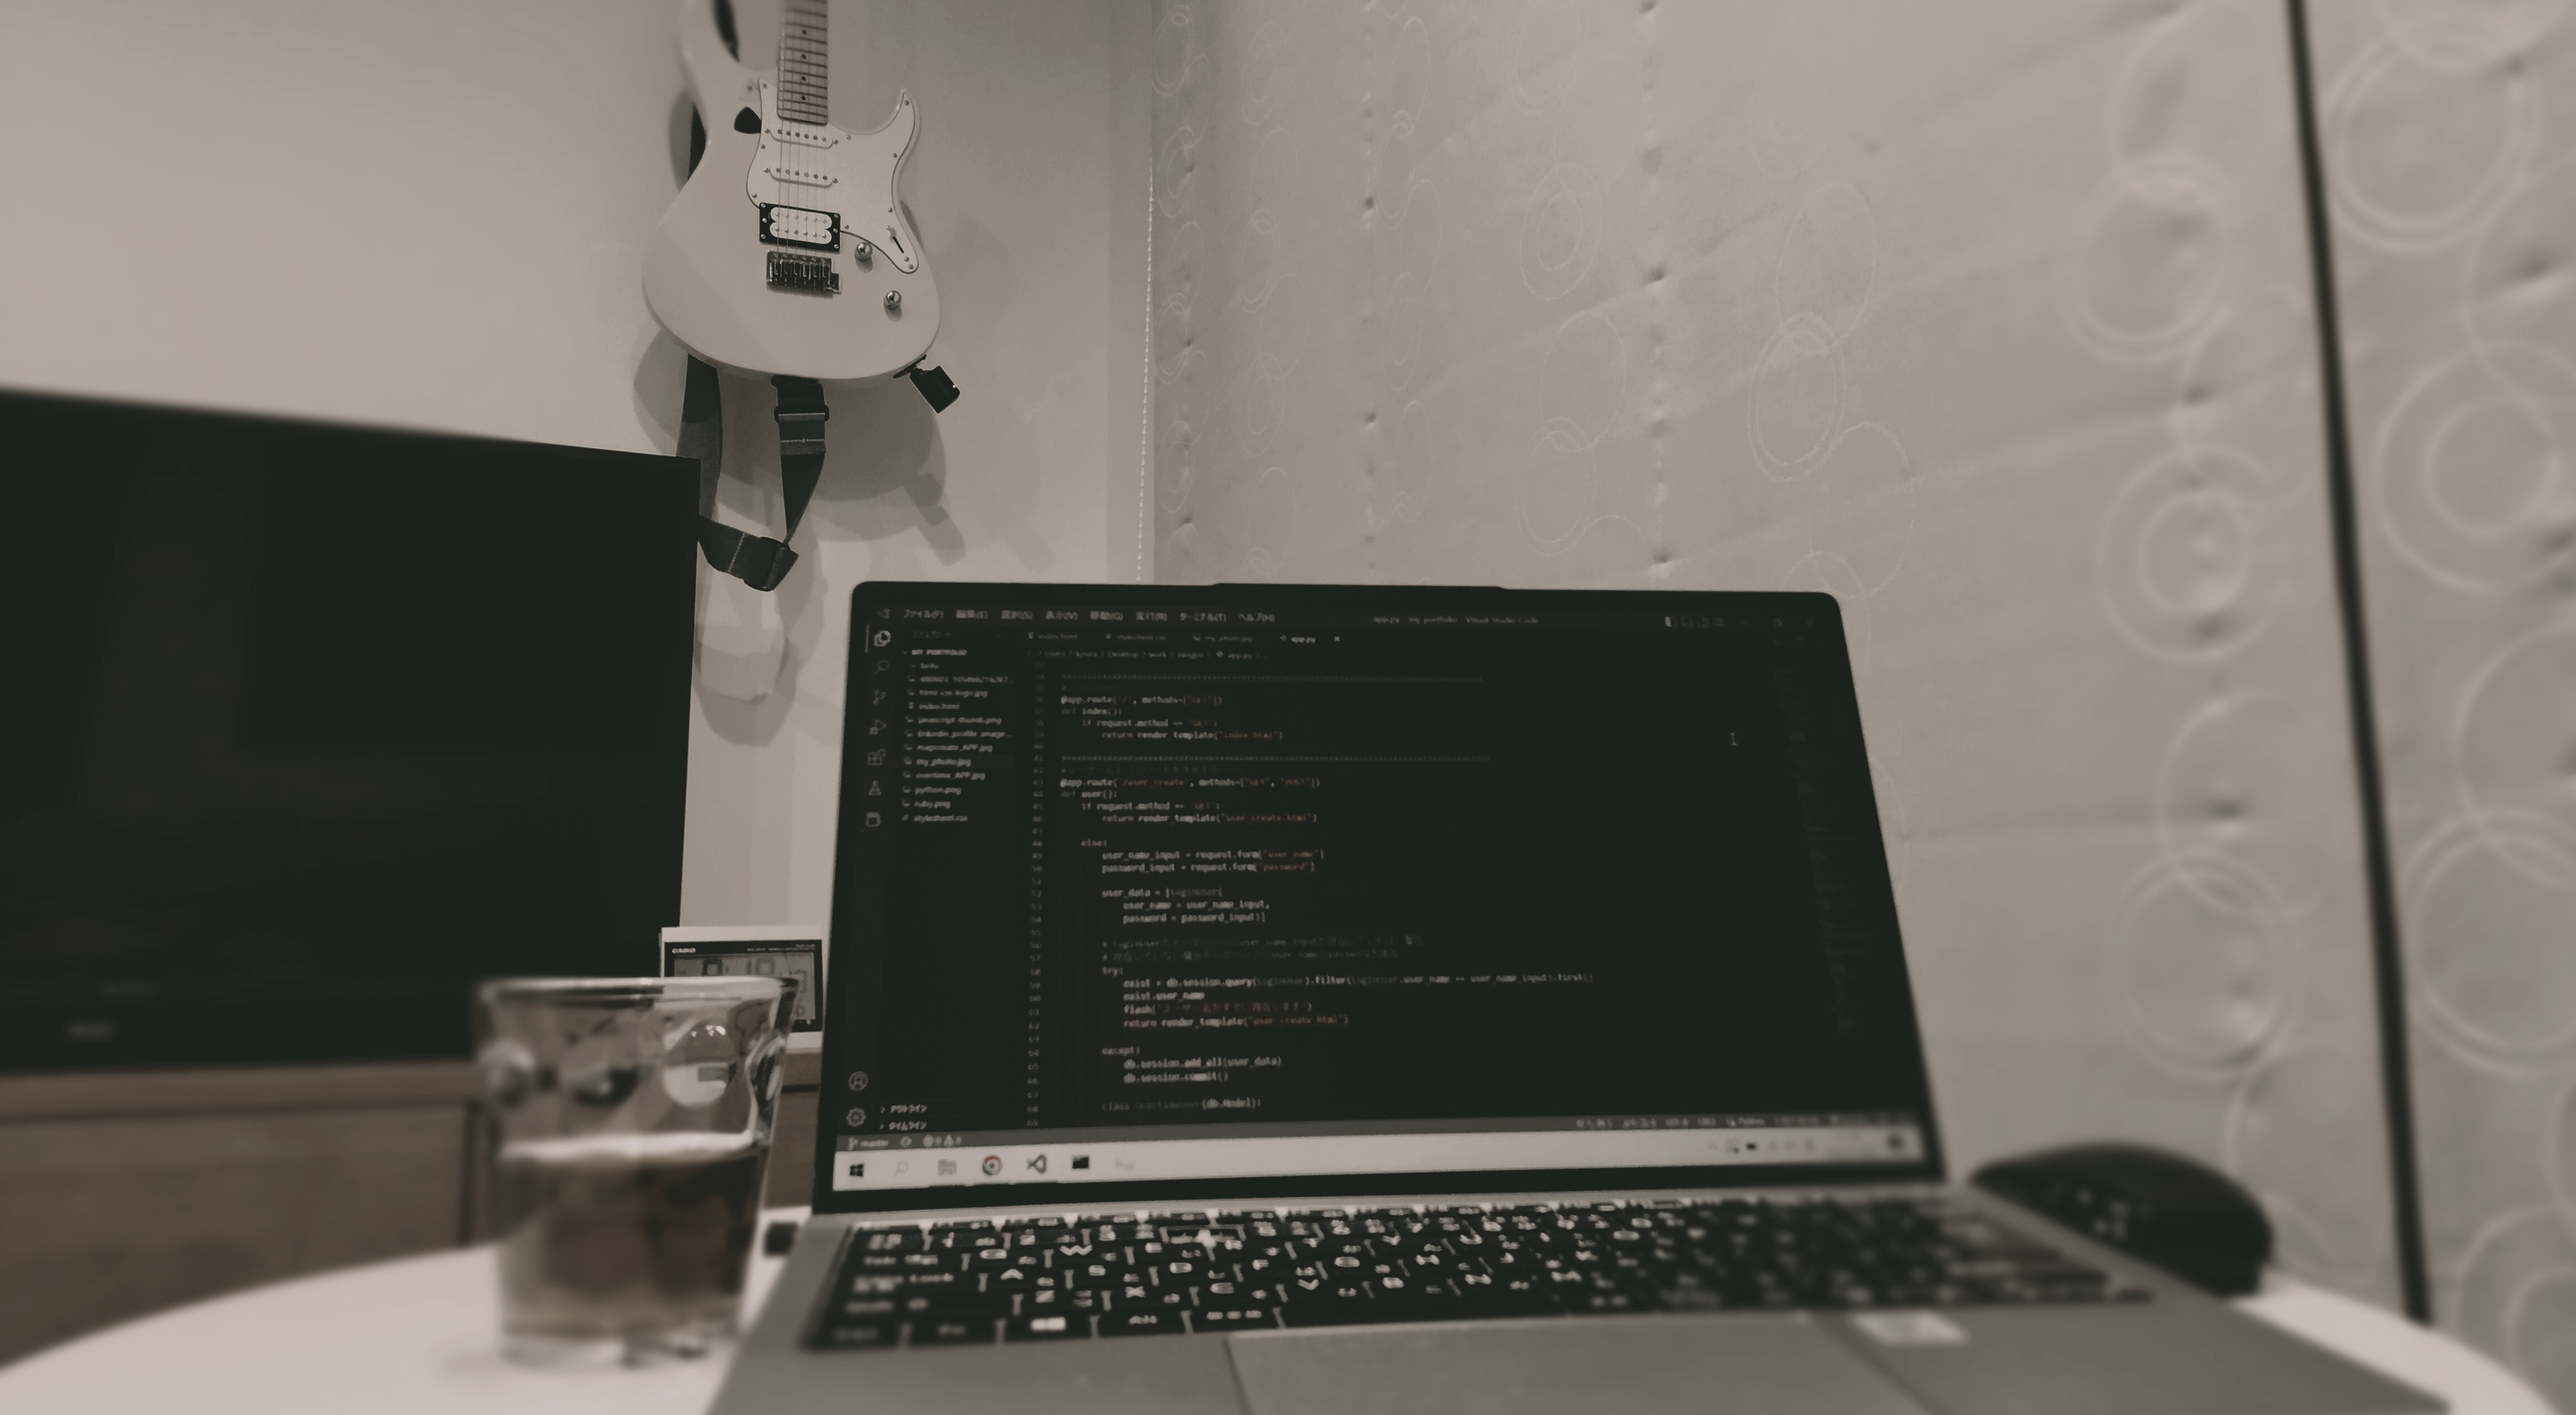
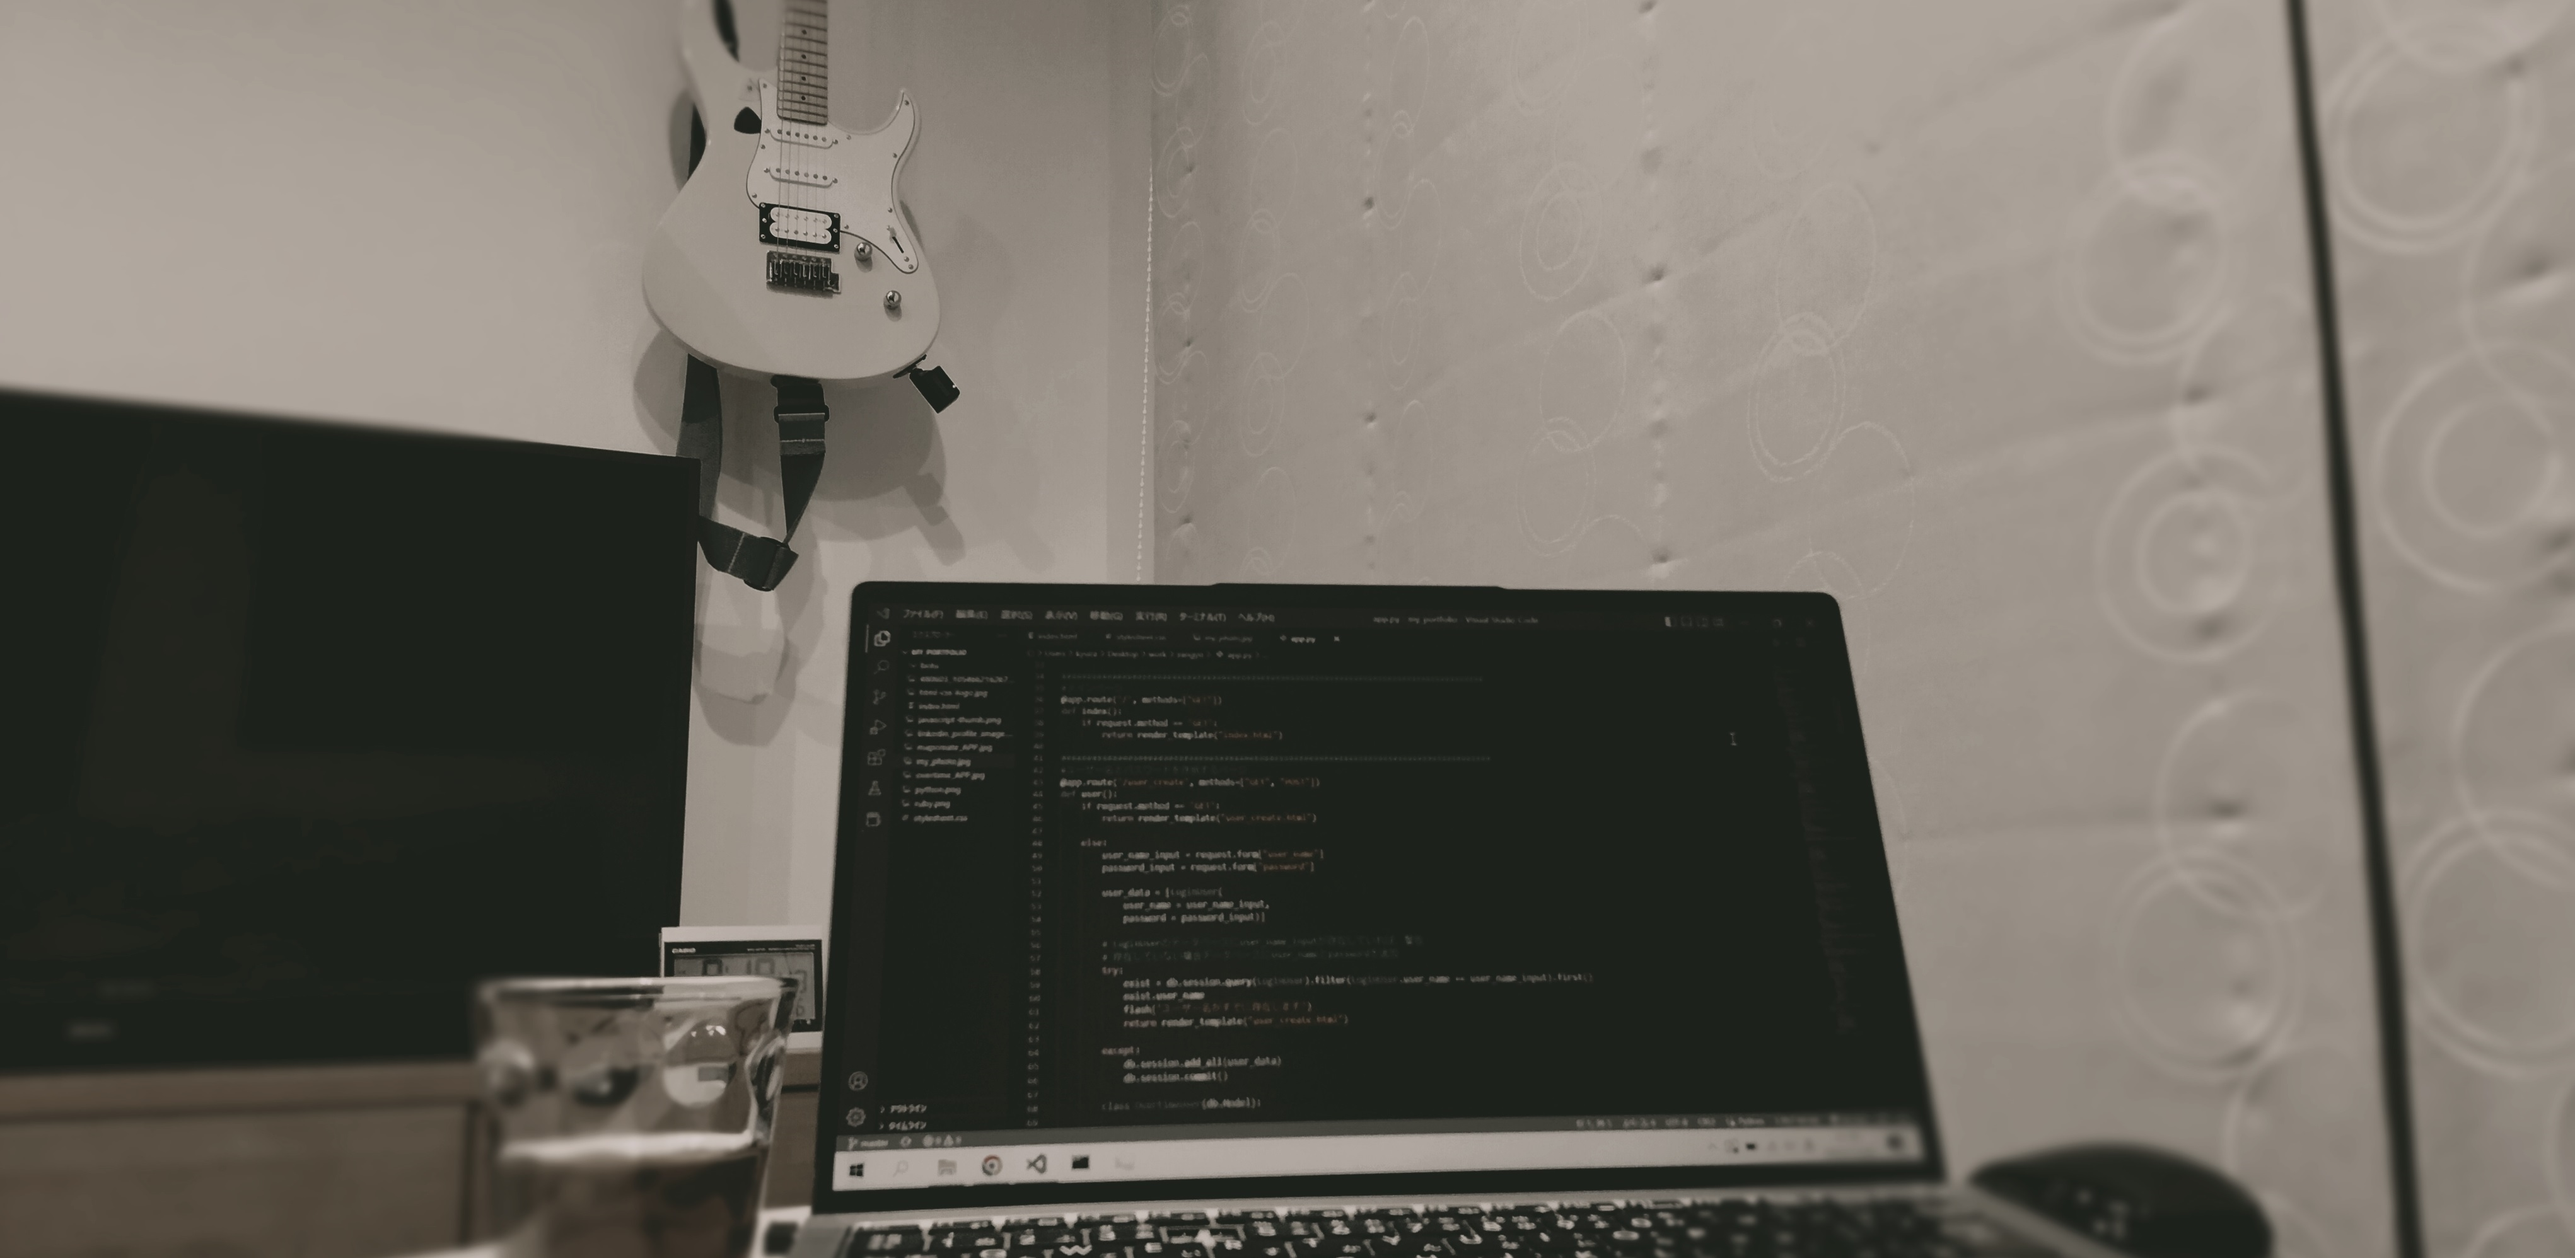
画像サイズ調整

diff --git a/stylesheet.css b/stylesheet.css
@@ -18,7 +18,7 @@ a {
 }
 
 .top-wrapper {
-  padding: 180px 0 100px 0;
+  padding: 400px 0 100px 0;
   background-image: url(IMG_20221204_212702_2.jpg);
   background-size: cover;
   color: white;
